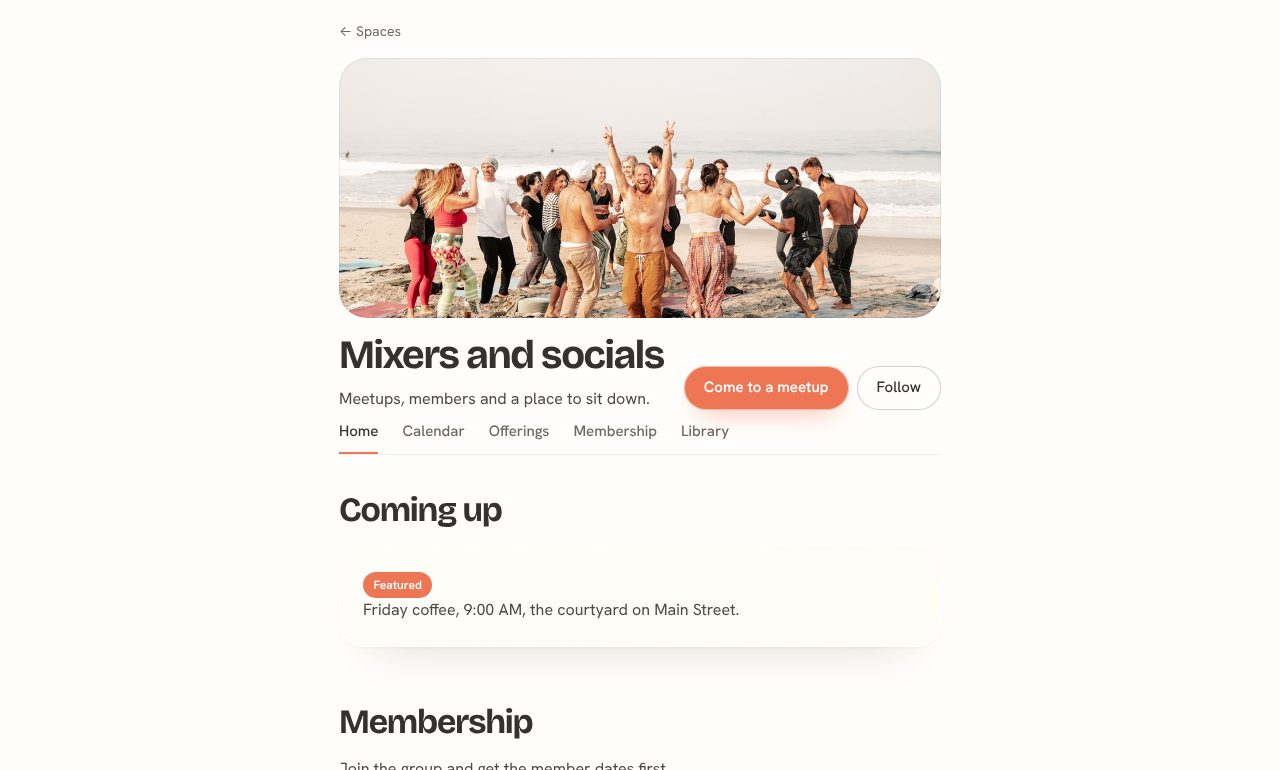
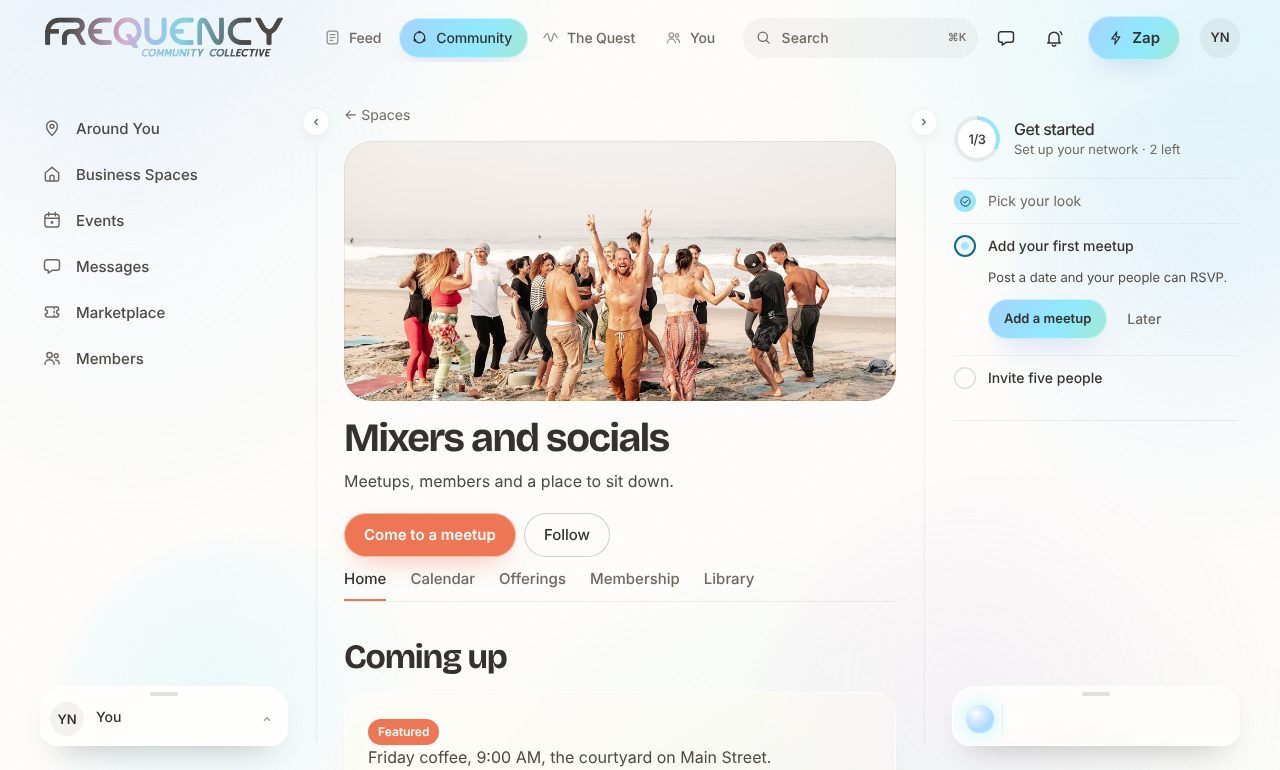
Network Space pictures: draw the Space page inside the member shell and rail (LIVE-1804)
Claude-Session: https://claude.ai/code/session_012BMmZVwoaWW1EwENfR3c34

diff --git a/scripts/render/network-kit-shots.render.tsx b/scripts/render/network-kit-shots.render.tsx
@@ -27,6 +27,9 @@ async function html(el: unknown): Promise<string> {
 const doc = (body: string) =>
   `<!doctype html><html data-design="frequency" data-theme="light"><head><meta charset="utf-8"><meta name="viewport" content="width=device-width,initial-scale=1"><link rel="stylesheet" href="app.css"><link rel="stylesheet" href="fonts.css"><style>:root{--font-lexend:Lexend,system-ui,sans-serif}html{scrollbar-width:none}</style></head><body><div data-kit="members" data-energy="still"><div class="fq-members" style="max-width:1180px;margin:0 auto;padding:16px">${body}</div></div></body></html>`
 
+const shellDoc = (body: string) =>
+  `<!doctype html><html data-design="frequency" data-theme="light"><head><meta charset="utf-8"><meta name="viewport" content="width=device-width,initial-scale=1"><link rel="stylesheet" href="app.css"><link rel="stylesheet" href="fonts.css"><style>:root{--font-lexend:Lexend,system-ui,sans-serif}html{scrollbar-width:none}</style></head><body>${body}</body></html>`
+
 const DATES = [
   { lead: 'Nov 6', title: 'Friday coffee', sub: '9:00 AM · The courtyard, Main Street' },
   { lead: 'Nov 12', title: 'Newcomer table', sub: '6:00 PM · Downtown library' },
@@ -36,6 +39,8 @@ const DATES = [
 it('renders the Space page and the note email for each profile', async () => {
   if (!out) throw new Error('set RENDER_OUT')
   const { FqSpaceChrome } = await import('@/components/frequency/members/space/space-chrome')
+  const { FrequencyMembersShell } = await import('@/components/frequency/members/shell/members-shell')
+  const { GetStarted } = await import('@/components/frequency/members/shell/get-started')
   const { AccentScope } = await import('@/components/spaces/accent-scope')
   const { spacePageSiteFaces } = await import('@/lib/theme/site-style')
   const { frequencyAccentVars } = await import('@/lib/spaces/accent')
@@ -67,7 +72,34 @@ it('renders the Space page and the note email for each profile', async () => {
         ],
       } as never),
     )
-    writeFileSync(`${out}/${profile}-spacedesk.html`, doc(await html(page)))
+    // The Space page sits in the real member shell (header, left rail, right rail, all Frequency); only the page wears the kit.
+    const shell = h(
+      FrequencyMembersShell,
+      {
+        profile: { id: 'p1', display_name: 'Your name', handle: 'yourname', avatar_url: null, community_role: 'member' },
+        previewVisitor: false,
+        crew: true,
+        stats: Promise.resolve(null),
+        sidebar: h('div', { className: 'fqm-r-stack' }, h(GetStarted, { steps: [
+          { key: 'a', label: 'Pick your look', blurb: 'The Network kit is on.', cta: 'Done', href: '#', done: true },
+          { key: 'b', label: 'Add your first meetup', blurb: 'Post a date and your people can RSVP.', cta: 'Add a meetup', href: '#', done: false },
+          { key: 'c', label: 'Invite five people', blurb: 'Send your Space link to the people you already see.', cta: 'Copy the link', href: '#', done: false },
+        ] })),
+        sidebarMicro: null,
+        banner: null,
+        unreadCount: 0,
+        messagesUnread: 0,
+        myFrequency: { profileHref: '/people/yourname', drafts: 0, spaces: [], circles: [], total: 0 },
+        operatesSpaces: false,
+        staffRole: null,
+        webRole: 'none',
+        caps: [],
+        availableContexts: [],
+        skin: 'frequency',
+        children: page,
+      } as never,
+    )
+    writeFileSync(`${out}/${profile}-spacedesk.html`, shellDoc(await html(shell)))
 
     const mail = networkKitNoteEmail(
       { profile, scheme, spaceName: networkKitProfileName(profile), mastheadNote: 'Meetups · Members', postalLine: 'Frequency, North County San Diego', siteUrl: 'https://tablenine.example', siteLabel: 'tablenine.example', unsubscribeUrl: 'https://frequencylocal.com/unsubscribe/s', manageUrl: 'https://frequencylocal.com/manage-emails' },
